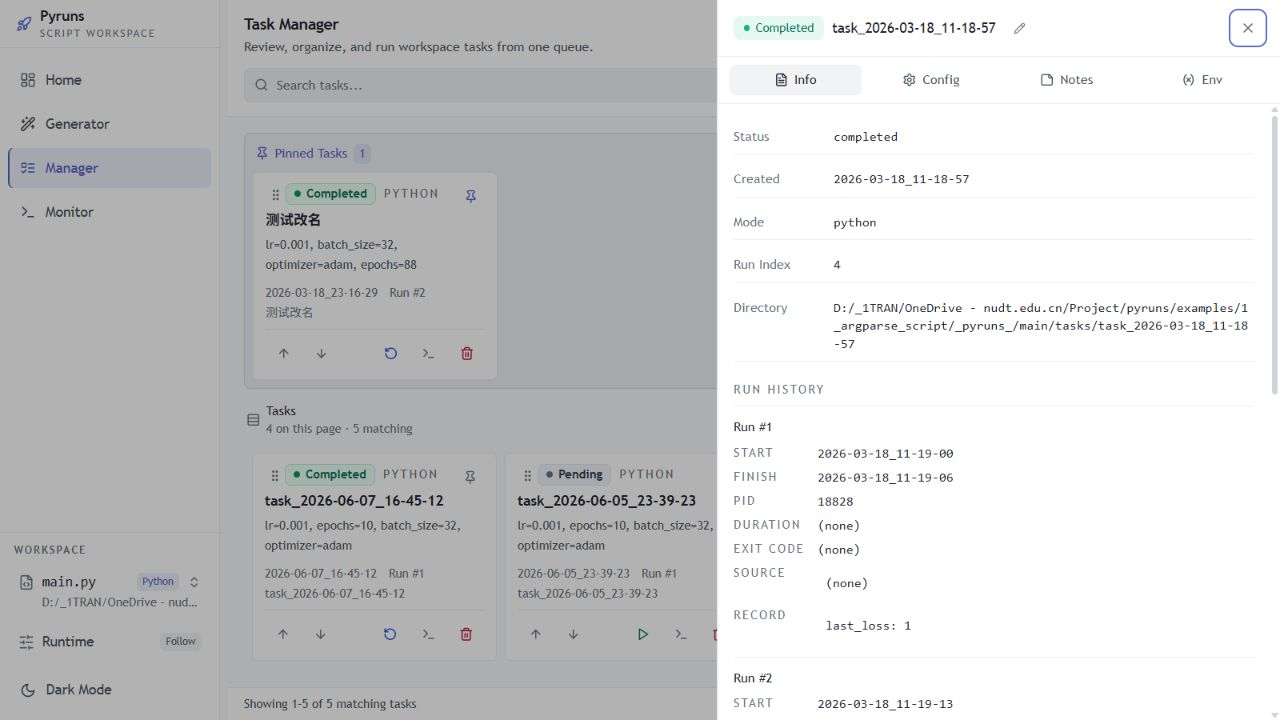
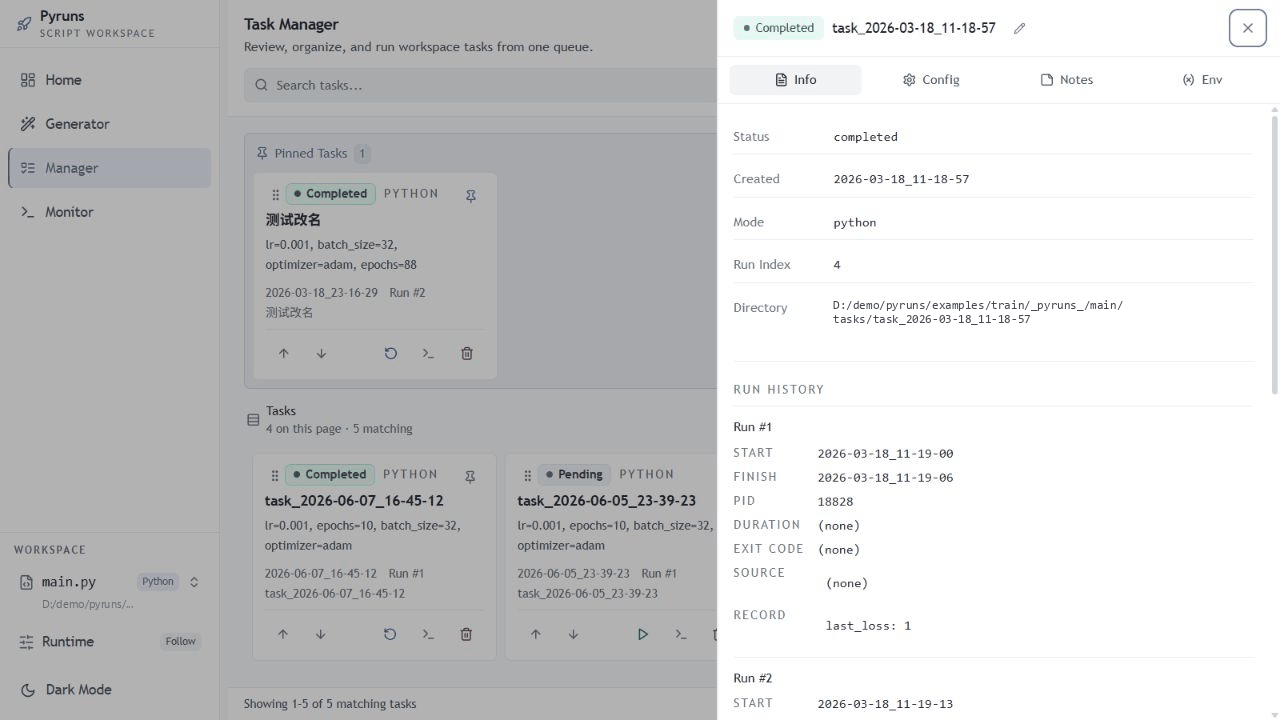
docs: 补充安全说明并脱敏界面截图

Changed region(s): [[0.6562, 0.3972, 0.9688, 0.4583], [0.0312, 0.825, 0.1562, 0.8556]]

diff --git a/README-en.md b/README-en.md
@@ -367,6 +367,9 @@ every start. The first browser request exchanges that token for an `HttpOnly`, s
 cookie and removes it from the address bar. With `--no-browser`, open the complete printed URL and
 do not share it; the Web UI is a local tool, not a remote multi-user service.
 
+Pyruns is not a code sandbox. Task commands and Python scripts inherit the current user's system
+permissions; run only scripts, configurations, and commands that you trust.
+
 - Home / Dashboard shows GPU and system state, task totals, and recent tasks for the current workspace.
 - Generator edits script configuration through Grid, Tree, or YAML views, or edits shell commands before creating tasks.
 - Manager searches, filters, sorts, and controls tasks in bulk, with run, stop, rename, pin, and recoverable removal actions.
